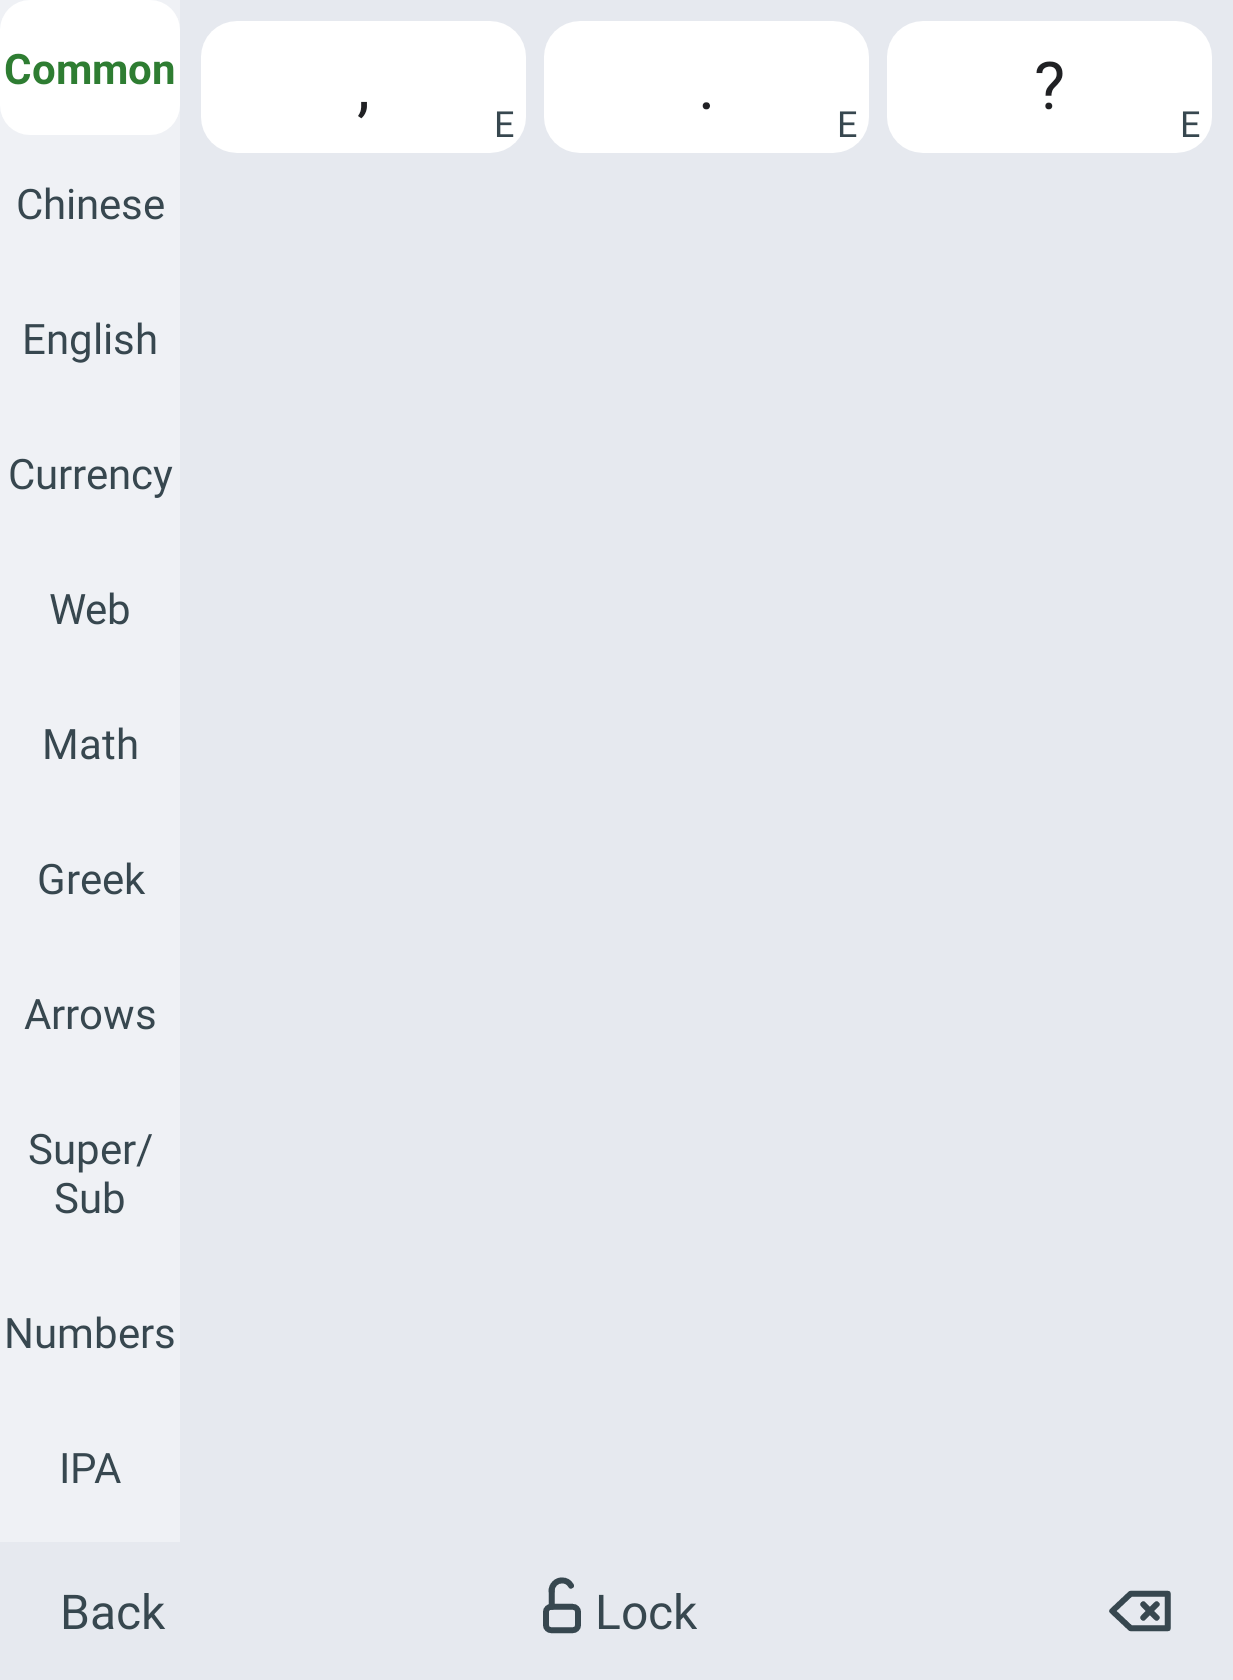
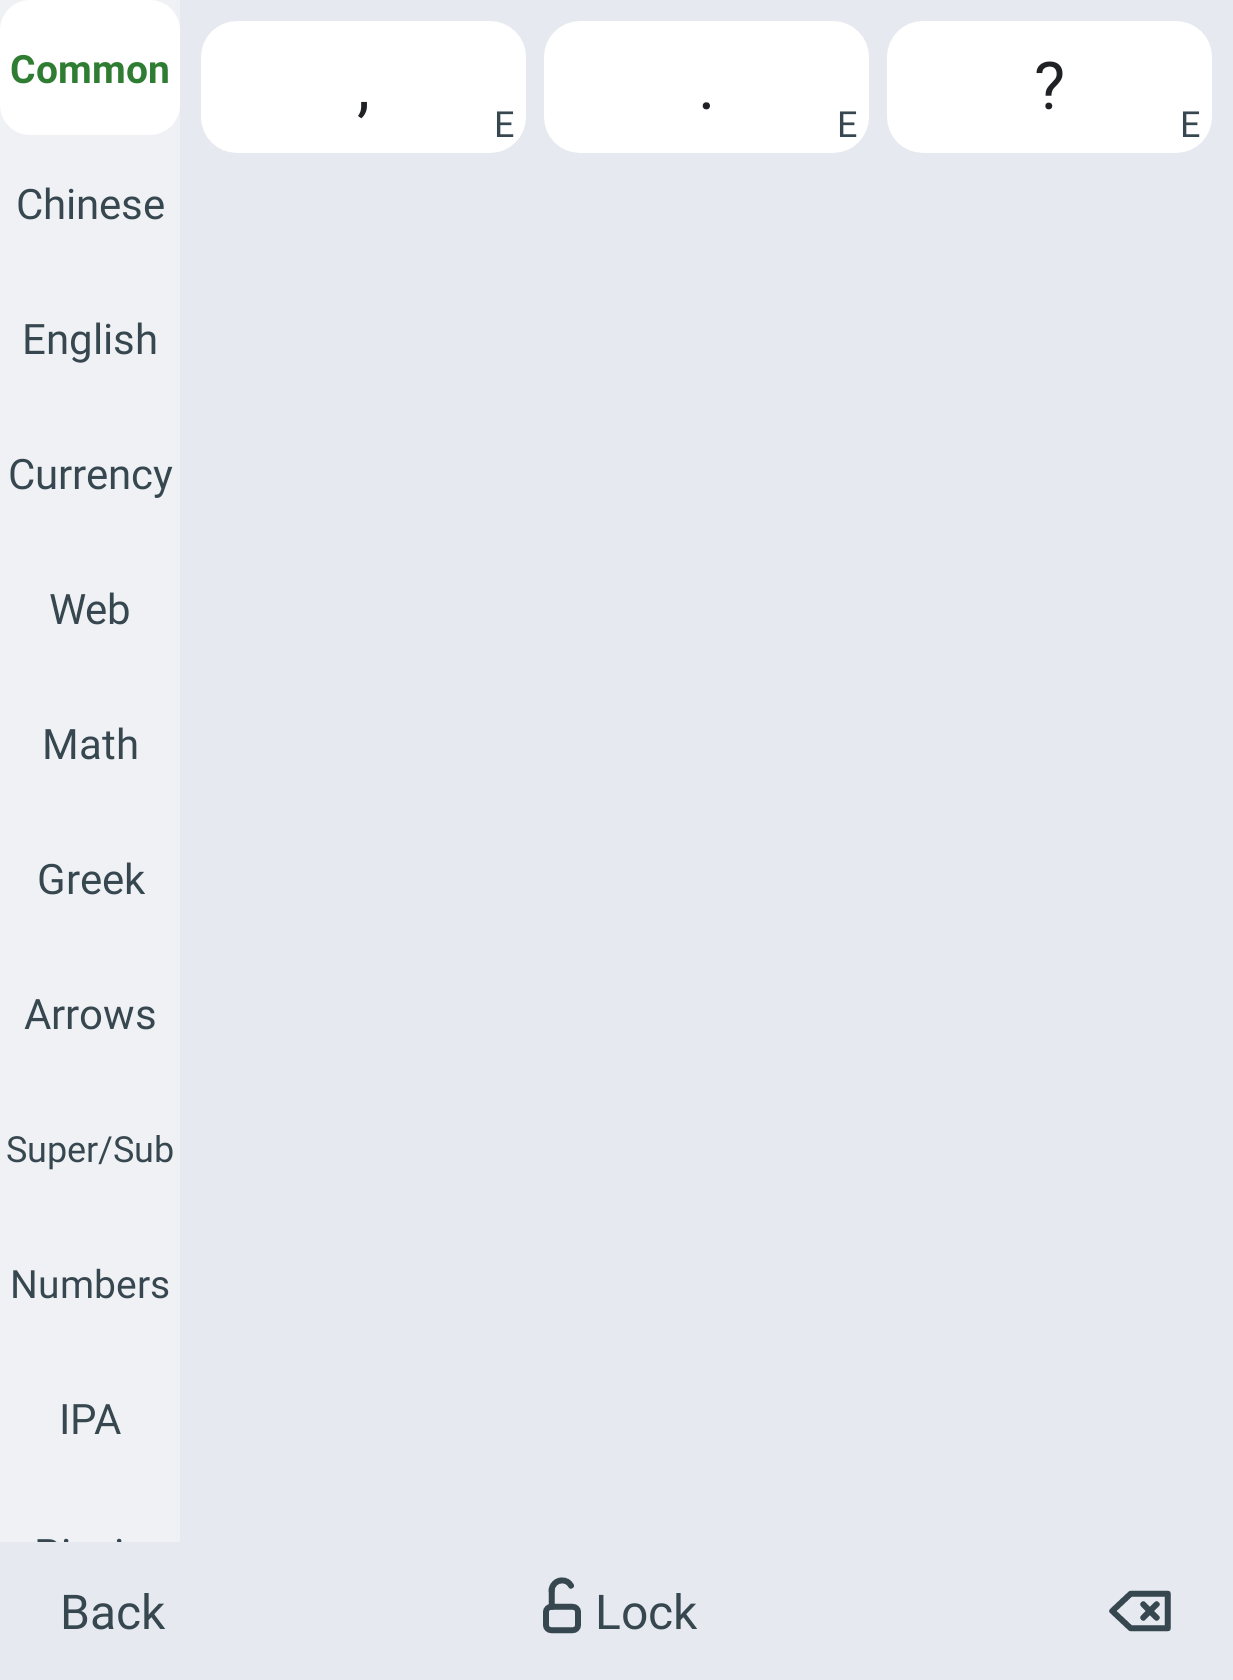
Fit English chrome to its containers; show sizes in decimal MB
English is the default locale, and several labels longer than the
Chinese they were sized around overflowed their fixed containers; the
download sizes were computed in binary MiB while labelled "MB".

Overflow fixes (short labels never shrink; Chinese renders are
unchanged):
- Keyboard: shrink an over-wide multi-char function label (e.g.
  "Symbols") to fit its key, mirroring the scroll-column / preview
  fit already in place; gated to length>1, single glyphs (letters,
  full-width ，/。) are never scaled.
- Symbol & emoji panels: autosize the category rail tabs
  (11sp..label, single line) with a little horizontal padding,
  fitting long names ("Activities", "Super/Sub", "Currency",
  "Numbers") without wrapping or touching the edge.
- Download cards: wrap the button row (FlowRow); wide English button
  labels fall to a second line instead of running off the card.

Size display: convert bytes to whole decimal MB (/1,000,000, rounded)
through one shared helper matching the "MB" unit: the enhancement
model reads ~421 MB (was 401) and the full dictionary pack ~255 MB
(was 243). The description strings and the runtime status share the
corrected numbers.

Re-render the affected English screenshots.

Changed region(s): [[0.0, 0.681, 0.1541, 0.8048], [0.0, 0.031, 0.1541, 0.0619], [0.0308, 0.8357, 0.0925, 0.8976]]

diff --git a/app/src/main/java/com/aegis/ime/ui/DictDownloadCard.kt b/app/src/main/java/com/aegis/ime/ui/DictDownloadCard.kt
@@ -23,8 +23,8 @@ import android.os.Looper
 import android.widget.Toast
 import androidx.compose.foundation.layout.Arrangement
 import androidx.compose.foundation.layout.Column
+import androidx.compose.foundation.layout.FlowRow
 import androidx.compose.foundation.layout.PaddingValues
-import androidx.compose.foundation.layout.Row
 import androidx.compose.foundation.layout.fillMaxWidth
 import androidx.compose.foundation.layout.padding
 import androidx.compose.material3.Button
@@ -56,8 +56,8 @@ internal fun DictDownloadCard(preview: DownloadCardPreview? = null) {
     val zip = ModelDownload.dictZipFile(context.filesDir)
     val location = zip.parentFile?.absolutePath ?: zip.absolutePath
     fun doneStatus(): LocalizedText {
-        val mb = ModelDownload.DICT_PACK_FILES.sumOf { File(context.filesDir, "downloaded/$it").length() } / 1048576
-        return LocalizedText.ResourceLong(R.string.dict_status_enabled, mb)
+        val bytes = ModelDownload.DICT_PACK_FILES.sumOf { File(context.filesDir, "downloaded/$it").length() }
+        return LocalizedText.ResourceLong(R.string.dict_status_enabled, ModelDownload.bytesToDisplayMb(bytes))
     }
     val notDownloadedStatus = LocalizedText.Resource(R.string.dict_status_not_downloaded)
 
@@ -173,7 +173,10 @@ internal fun DictDownloadCard(preview: DownloadCardPreview? = null) {
                 if (checking) stringResource(R.string.download_status_checking_update) else status.asString(),
                 style = MaterialTheme.typography.bodySmall,
             )
-            Row(horizontalArrangement = Arrangement.spacedBy(12.dp)) {
+            FlowRow(
+                horizontalArrangement = Arrangement.spacedBy(12.dp),
+                verticalArrangement = Arrangement.spacedBy(8.dp),
+            ) {
                 Button(
                     enabled = !downloading && !present,
                     onClick = { startDownload() },

diff --git a/app/src/main/java/com/aegis/ime/ui/GramDownloadCard.kt b/app/src/main/java/com/aegis/ime/ui/GramDownloadCard.kt
@@ -23,8 +23,8 @@ import android.os.Looper
 import android.widget.Toast
 import androidx.compose.foundation.layout.Arrangement
 import androidx.compose.foundation.layout.Column
+import androidx.compose.foundation.layout.FlowRow
 import androidx.compose.foundation.layout.PaddingValues
-import androidx.compose.foundation.layout.Row
 import androidx.compose.foundation.layout.fillMaxWidth
 import androidx.compose.foundation.layout.padding
 import androidx.compose.material3.Button
@@ -56,7 +56,7 @@ internal fun GramDownloadCard(preview: DownloadCardPreview? = null) {
     val prefs = context.getSharedPreferences("aegis", Context.MODE_PRIVATE)
     val dest = ModelDownload.destFile(context.filesDir)
     val location = dest.parentFile?.absolutePath ?: dest.absolutePath
-    fun doneStatus() = LocalizedText.ResourceLong(R.string.gram_status_enabled, dest.length() / 1048576)
+    fun doneStatus() = LocalizedText.ResourceLong(R.string.gram_status_enabled, ModelDownload.bytesToDisplayMb(dest.length()))
     val notDownloadedStatus = LocalizedText.Resource(R.string.gram_status_not_downloaded)
 
     var present by remember { mutableStateOf(preview?.present ?: (dest.exists() && dest.length() > 1024)) }
@@ -162,7 +162,10 @@ internal fun GramDownloadCard(preview: DownloadCardPreview? = null) {
                 if (checking) stringResource(R.string.download_status_checking_update) else status.asString(),
                 style = MaterialTheme.typography.bodySmall,
             )
-            Row(horizontalArrangement = Arrangement.spacedBy(12.dp)) {
+            FlowRow(
+                horizontalArrangement = Arrangement.spacedBy(12.dp),
+                verticalArrangement = Arrangement.spacedBy(8.dp),
+            ) {
                 Button(
                     enabled = !downloading && !present,
                     onClick = { startDownload() },

diff --git a/app/src/test/java/com/aegis/ime/dict/ModelDownloadTest.kt b/app/src/test/java/com/aegis/ime/dict/ModelDownloadTest.kt
@@ -15,7 +15,9 @@
 
 package com.aegis.ime.dict
 
+import org.junit.Assert.assertEquals
 import org.junit.Assert.assertFalse
+import org.junit.Assert.assertNotEquals
 import org.junit.Assert.assertTrue
 import org.junit.Test
 import java.io.File
@@ -72,5 +74,20 @@ class ModelDownloadTest {
         assertTrue(ModelDownload.updateAvailable(local = null, remote = "etag-2"))
         assertTrue(ModelDownload.updateAvailable(local = "etag-1", remote = null))
         assertTrue(ModelDownload.updateAvailable(local = null, remote = null))
+    }
+
+    @Test
+    fun sizeDisplayIsDecimalMegabytesNotBinaryMebibytes() {
+        assertEquals("gram model reads as decimal MB", 421L, ModelDownload.bytesToDisplayMb(420_556_844L))
+        assertEquals("dict pack reads as decimal MB", 255L, ModelDownload.bytesToDisplayMb(254_961_874L))
+
+        assertEquals("gram was 401 under the old MiB divisor", 401L, 420_556_844L / 1_048_576L)
+        assertEquals("dict was 243 under the old MiB divisor", 243L, 254_961_874L / 1_048_576L)
+        assertNotEquals(420_556_844L / 1_048_576L, ModelDownload.bytesToDisplayMb(420_556_844L))
+
+        assertEquals("rounds up past .5", 255L, ModelDownload.bytesToDisplayMb(254_500_000L))
+        assertEquals("rounds down below .5", 254L, ModelDownload.bytesToDisplayMb(254_499_999L))
+        assertEquals("exact MB", 100L, ModelDownload.bytesToDisplayMb(100_000_000L))
+        assertEquals("zero bytes", 0L, ModelDownload.bytesToDisplayMb(0L))
     }
 }

diff --git a/app/src/main/java/com/aegis/ime/ime/EmojiView.kt b/app/src/main/java/com/aegis/ime/ime/EmojiView.kt
@@ -36,6 +36,7 @@ import android.widget.GridLayout
 import android.widget.LinearLayout
 import android.widget.ScrollView
 import android.widget.TextView
+import androidx.core.widget.TextViewCompat
 import com.aegis.ime.ime.theme.ImePalette
 import com.aegis.ime.ime.theme.ImeShapes
 import com.aegis.ime.ime.theme.ImeType
@@ -248,8 +249,9 @@ class EmojiView(context: Context) : LinearLayout(context), ResettablePanel {
     private fun railTab(index: Int, title: String): TextView = TextView(context).apply {
         text = title
         gravity = Gravity.CENTER
-        setTextSize(TypedValue.COMPLEX_UNIT_SP, ImeType.label)
-        setPadding(0, dp(13), 0, dp(13))
+        maxLines = 1
+        setPadding(dp(2), dp(13), dp(2), dp(13))
+        TextViewCompat.setAutoSizeTextTypeUniformWithConfiguration(this, 11, ImeType.label.toInt(), 1, TypedValue.COMPLEX_UNIT_SP)
         background = railTabBackground(index == selected)
         isClickable = true
         Motion.applyTapFeedback(this, if (index == selected) palette.candidateFirst else palette.keyLabelSecondary, radiusDp = ImeShapes.chipRadiusDp)

diff --git a/app/src/main/java/com/aegis/ime/ime/KeyboardView.kt b/app/src/main/java/com/aegis/ime/ime/KeyboardView.kt
@@ -460,7 +460,14 @@ class KeyboardView(context: Context) : View(context) {
             display.length > 1 && p.key.action != KeyAction.COMMIT -> specialLabelPaint
             else -> labelPaint
         }
+        val baseTextSize = paint.textSize
+        if (display.length > 1) {
+            val avail = p.rect.width() - 14f * density
+            val w = paint.measureText(display)
+            if (w > avail && avail > 0f) paint.textSize = (baseTextSize * avail / w).coerceAtLeast(11f * density)
+        }
         canvas.drawText(display, cx, cy - (paint.descent() + paint.ascent()) / 2, paint)
+        paint.textSize = baseTextSize
         if (p.key.sub != null) {
             canvas.drawText(p.key.sub, p.rect.right - 6 * density, p.rect.top + 15 * density, subPaint)
         }

diff --git a/app/src/main/java/com/aegis/ime/ime/SymbolsView.kt b/app/src/main/java/com/aegis/ime/ime/SymbolsView.kt
@@ -274,8 +274,9 @@ class SymbolsView(context: Context) : LinearLayout(context), ResettablePanel {
     private fun railTab(index: Int, title: String): TextView = TextView(context).apply {
         text = title
         gravity = Gravity.CENTER
-        setTextSize(TypedValue.COMPLEX_UNIT_SP, ImeType.label)
-        setPadding(0, dp(13), 0, dp(13))
+        maxLines = 1
+        setPadding(dp(2), dp(13), dp(2), dp(13))
+        TextViewCompat.setAutoSizeTextTypeUniformWithConfiguration(this, 11, ImeType.label.toInt(), 1, TypedValue.COMPLEX_UNIT_SP)
         background = railTabBackground(index == selected)
         isClickable = true
         Motion.applyTapFeedback(this, if (index == selected) palette.candidateFirst else palette.keyLabelSecondary, radiusDp = ImeShapes.chipRadiusDp)

diff --git a/app/src/main/java/com/aegis/ime/dict/ModelDownload.kt b/app/src/main/java/com/aegis/ime/dict/ModelDownload.kt
@@ -42,6 +42,8 @@ object ModelDownload {
 
     fun isDownloaded(filesDir: File): Boolean = destFile(filesDir).let { it.exists() && it.length() > 1024 }
 
+    fun bytesToDisplayMb(bytes: Long): Long = Math.round(bytes / 1_000_000.0)
+
     data class DownloadResult(val ok: Boolean, val validator: String?)
 
     private val inFlight = ConcurrentHashMap.newKeySet<String>()
